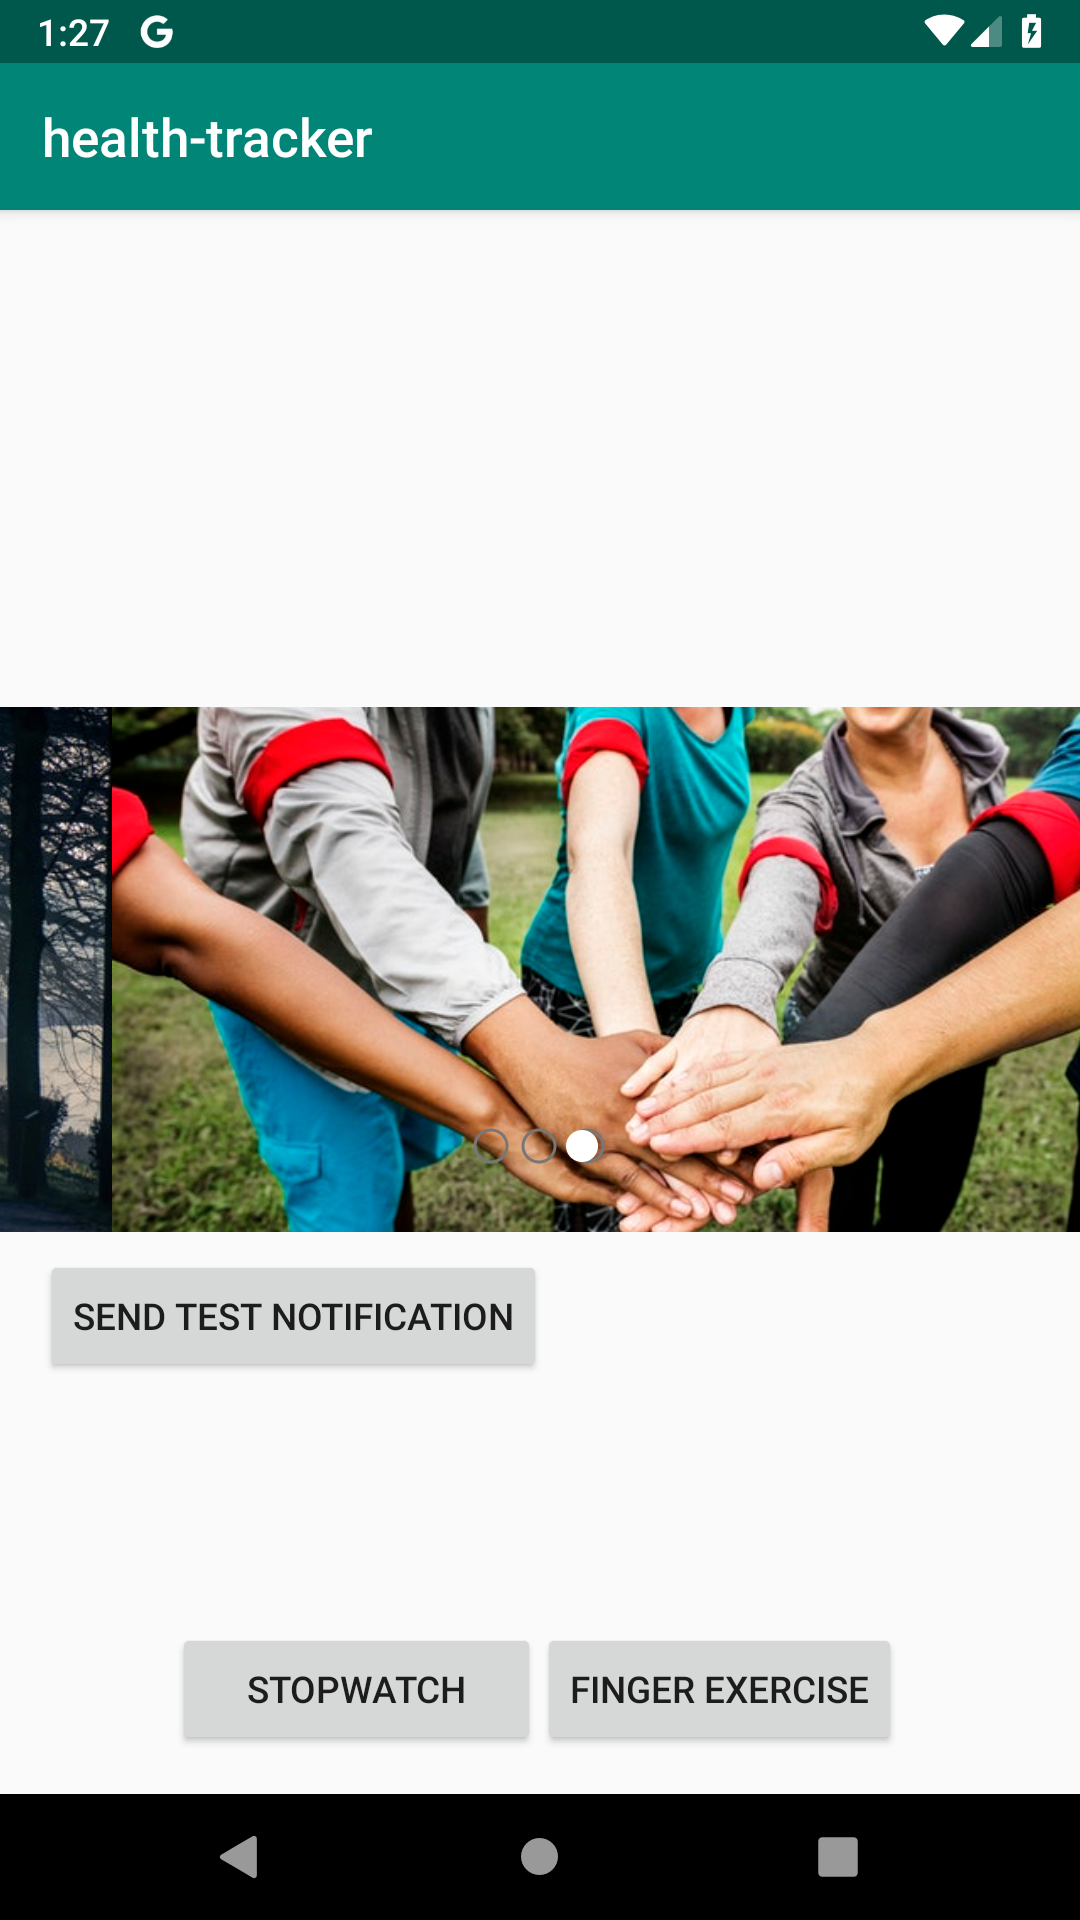
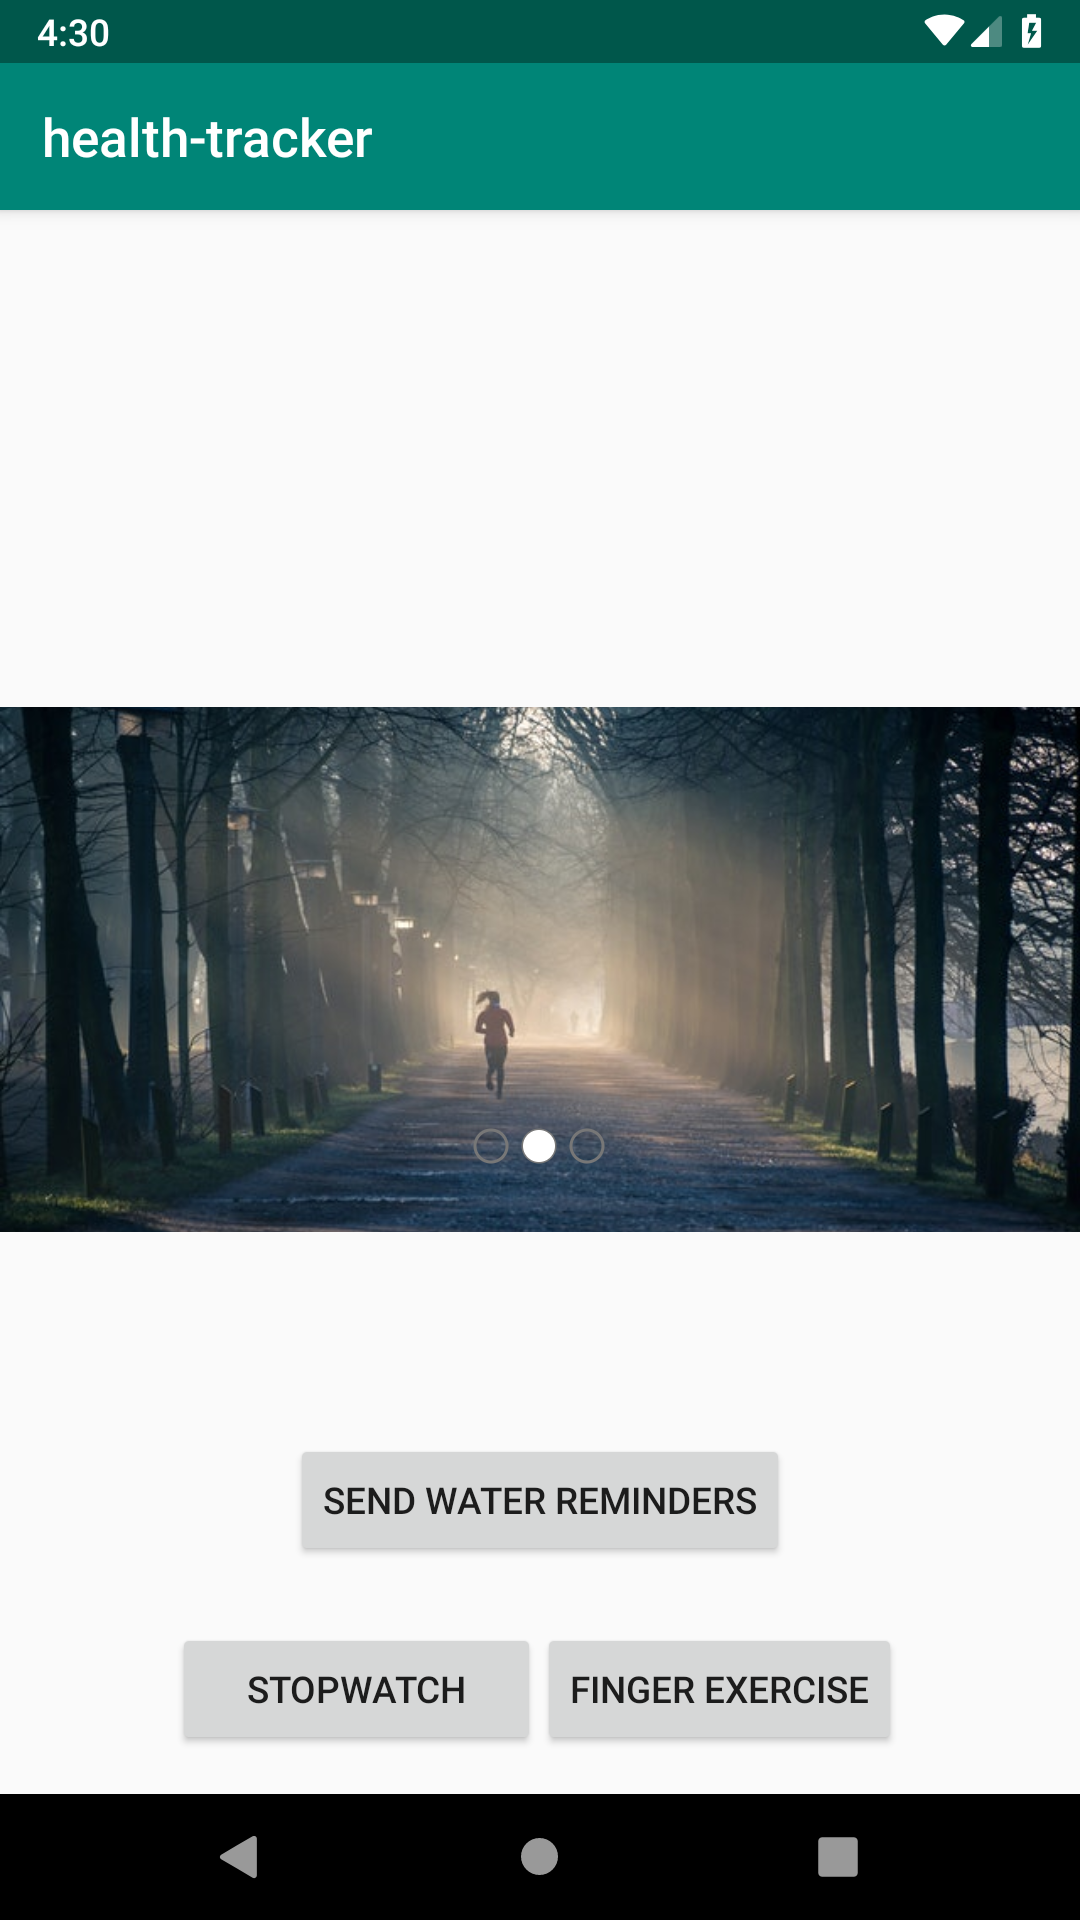
finished notifications

diff --git a/app/src/main/java/com/example/health_tracker/MainActivity.java b/app/src/main/java/com/example/health_tracker/MainActivity.java
@@ -1,21 +1,23 @@
 package com.example.health_tracker;
 
-import android.app.Notification;
+import android.app.AlarmManager;
+import android.app.NotificationChannel;
+import android.app.NotificationManager;
+import android.app.PendingIntent;
+import android.content.Context;
 import android.content.Intent;
+import android.os.Build;
+import android.os.SystemClock;
 import android.support.v4.app.NotificationCompat;
 import android.support.v4.app.NotificationManagerCompat;
 import android.support.v7.app.AppCompatActivity;
 import android.os.Bundle;
 import android.view.View;
 import android.widget.ImageView;
-import android.widget.TextView;
 
 import com.synnapps.carouselview.CarouselView;
 import com.synnapps.carouselview.ImageListener;
 
-import java.text.SimpleDateFormat;
-import java.time.LocalDateTime;
-import java.util.Date;
 import java.util.Timer;
 import java.util.TimerTask;
 
@@ -28,7 +30,8 @@ public class MainActivity extends AppCompatActivity {
     int[] sampleImages = {R.drawable.exercise1, R.drawable.exercise2, R.drawable.exercise3};
 
     // For notification setting
-    private static final String CHANNEL_ID = "channelId";
+    private static int notificationId = 1;
+    private static int NOTIFICATION_INTERVAL = 1000 * 60 * 60 * 2; // 2 hours
 
 
     @Override
@@ -61,18 +64,45 @@ public class MainActivity extends AppCompatActivity {
         startActivity(stopwatchIntent);
     }
 
+    // From lecture: Day 28 Part 1
     public void sendNotification(View v) {
-        NotificationCompat.Builder builder =
-                new NotificationCompat.Builder(this, CHANNEL_ID)
-                        .setSmallIcon(R.drawable.notification_icon)
-                        .setContentTitle("Drink Water")
-                        .setContentText("Reminder to drink water. At least 4 cups per hour while exercising your fingers.")
-                        .setStyle(new NotificationCompat.BigTextStyle()
-                                .bigText("WHAT IS IS TEXT FOR??????"))
-                        .setPriority(NotificationCompat.PRIORITY_DEFAULT);
-        NotificationManagerCompat notificationManager = NotificationManagerCompat.from(this);
 
-        notificationManager.notify(1, builder.build());
+        // From Android docs: https://developer.android.com/training/notify-user/channels#java
+        if (Build.VERSION.SDK_INT >= Build.VERSION_CODES.O) {
+            CharSequence name = getString(R.string.channel_name);
+            int importance = NotificationManager.IMPORTANCE_DEFAULT;
+            NotificationChannel channel = new NotificationChannel(getString(R.string.channel_name), name, importance);
+            NotificationManager notificationManager = getSystemService(NotificationManager.class);
+            notificationManager.createNotificationChannel(channel);
+        }
+
+        Timer t = new Timer();
+        t.schedule(new TimerTask() {
+            @Override
+            public void run() {
+                NotificationCompat.Builder builder =
+                        new NotificationCompat.Builder(MainActivity.this, getString(R.string.channel_name))
+                                .setSmallIcon(R.drawable.notification_icon)
+                                .setContentTitle("Health Tracker")
+                                .setContentText("Reminder to drink water. At least 4 cups per hour while exercising your fingers.")
+                                .setStyle(new NotificationCompat.BigTextStyle()
+                                        .bigText("Time to Drink Water"))
+                                .setPriority(NotificationCompat.PRIORITY_DEFAULT);
+                NotificationManagerCompat notificationManager = NotificationManagerCompat.from(MainActivity.this);
+                notificationManager.notify(notificationId++, builder.build());
+            }
+        }, NOTIFICATION_INTERVAL, NOTIFICATION_INTERVAL);
+
+//
+//        Intent intent = new Intent(this, NotificationReceiver.class);
+//        intent.putExtra("notification", builder.build());
+//        intent.putExtra("notification_id", notificationId++);
+//        PendingIntent pendingIntent = PendingIntent.getBroadcast(this, 0, intent, PendingIntent.FLAG_UPDATE_CURRENT);
+//
+//        // Schedule pending intent for the future
+//        AlarmManager alarmManager = (AlarmManager) getSystemService(Context.ALARM_SERVICE);
+//        alarmManager.set(AlarmManager.ELAPSED_REALTIME_WAKEUP, SystemClock.elapsedRealtime() + NOTIFICATION_INTERVAL, pendingIntent);
     }
+
 
 }

diff --git a/app/src/main/java/com/example/health_tracker/NotificationReceiver.java b/app/src/main/java/com/example/health_tracker/NotificationReceiver.java
@@ -1,0 +1,23 @@
+package com.example.health_tracker;
+
+import android.app.Notification;
+import android.app.NotificationManager;
+import android.content.BroadcastReceiver;
+import android.content.Context;
+import android.content.Intent;
+import android.support.v4.app.NotificationManagerCompat;
+
+public class NotificationReceiver extends BroadcastReceiver {
+
+    // Referenced: https://gist.github.com/BrandonSmith/6679223
+    @Override
+    public void onReceive(Context context, Intent intent) {
+        // TODO: This method is called when the BroadcastReceiver is receiving
+        // an Intent broadcast.
+        NotificationManager notificationManager = (NotificationManager) context.getSystemService(Context.NOTIFICATION_SERVICE);
+
+        Notification n = intent.getParcelableExtra("notification");
+        int id = intent.getIntExtra("notification_id", 0);
+        notificationManager.notify(id, n);
+    }
+}

diff --git a/README.md b/README.md
@@ -17,11 +17,11 @@ The Health Tracker is the first Android app that I am developing.  It emulates a
 
 ## Lab 27 Features
 * Separated the Stopwatch and Finger Exercises onto different pages.
+* Added a "Water Reminder" notification to be sent ever two hours on button click.
 * Added buttons to the main activity to access the pages.
 * Added a back button to return to the main activity from Stopwatch and Finger Exercises.
 * Styled pages, added multiple buttons to a LinearLayout.
 * Moved strings to the strings.xml file.
-* Started code to send scheduled notifications (incomplete).
 
 ### Screenshots
 
@@ -29,6 +29,7 @@ The Health Tracker is the first Android app that I am developing.  It emulates a
   <img src="./assets/screenshot_2.png" width="150" />
   <img src="./assets/screenshot_3.png" width="150" /> 
   <img src="./assets/screenshot_4.png" width="150" />
+  <img src="./assets/screenshot_5.png" width="150" />
 </p>
 
 
@@ -39,3 +40,4 @@ The Health Tracker is the first Android app that I am developing.  It emulates a
 * Image carousel sourced from: https://github.com/sayyam/carouselview
 * Video on TimerTask used to help develop the stopwatch: https://www.youtube.com/watch?v=36jbBSQd3eU
 * More information about TimerTask utilized from: https://www.tutorialspoint.com/java/util/timer_scheduleatfixedrate.htm
+* Setting up Alarm Manager: https://gist.github.com/BrandonSmith/6679223
